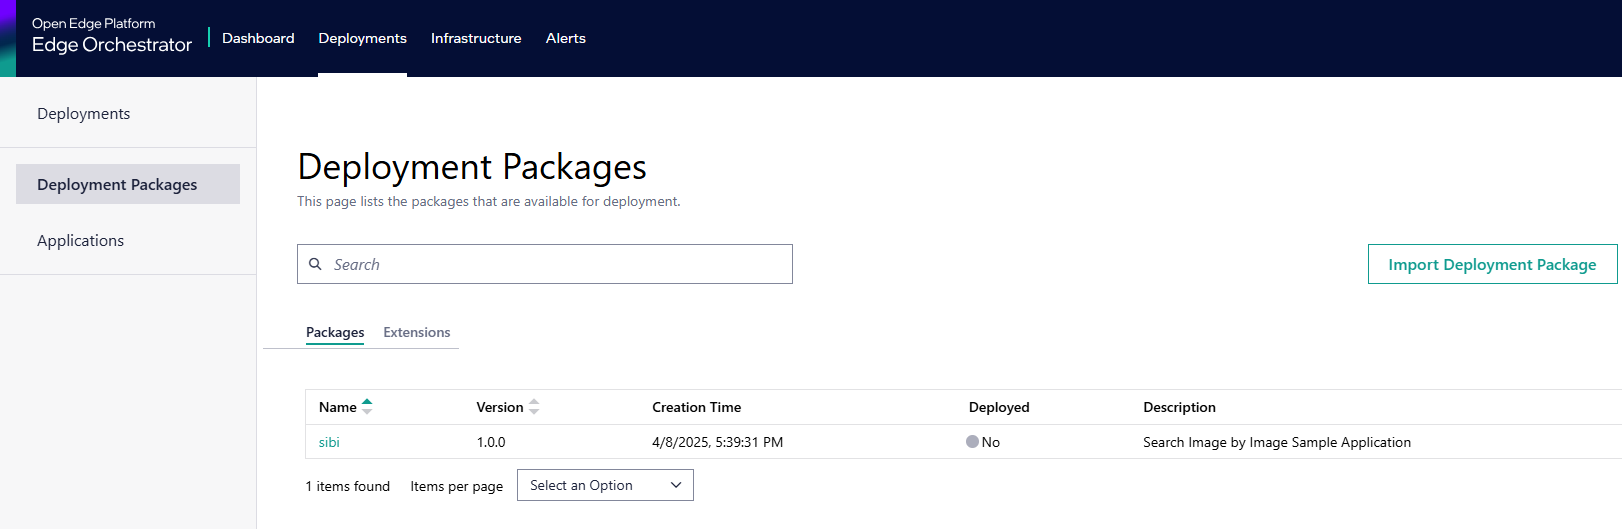
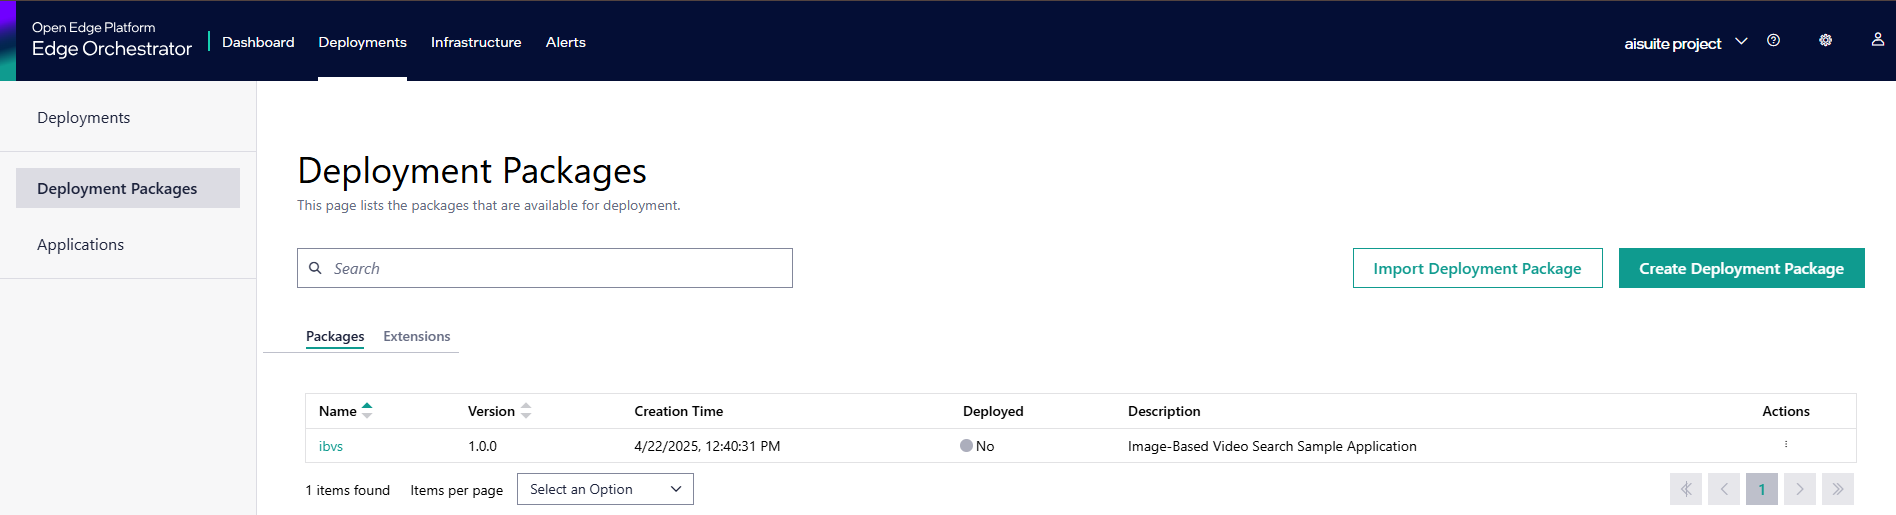
Update Deployment Package Image (#89)
* Update image with new app name
* Update docs with image content

diff --git a/metro-ai-suite/image-based-video-search/docs/user-guide/how-to-deploy-edge-orchestrator.md b/metro-ai-suite/image-based-video-search/docs/user-guide/how-to-deploy-edge-orchestrator.md
@@ -44,7 +44,7 @@ To set up a deployment:
 
 1. Select Deployments tab and click Setup a Deployment button. The Setup a Deployment page appears.
 
-1. In the Setup a Deployment page, select the **ibvs-app** package for the deployment from list, and click Next. The Select a Profile step appears:
+1. In the Setup a Deployment page, select the **ibvs** package for the deployment from list, and click Next. The Select a Profile step appears:
 
 1. In the Select a Profile step, select the deployment profile, and click Next. The Override Profile Values page appears.
 
